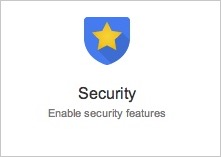
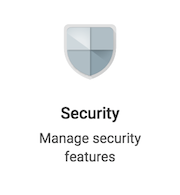
Google Apps screenshots updated

diff --git a/SAML_Docs/How-to-Enable-SAML-2.0-in-Google-Apps.html b/SAML_Docs/How-to-Enable-SAML-2.0-in-Google-Apps.html
@@ -52,14 +52,13 @@ try{Typekit.load();}catch(e){}
 <li>
 <p>Click the <strong>Security</strong> icon shown below.<br /><img style="border: 0; padding: 0;" src="images/apps/Google_Apps_Security_Icon.jpg" alt="Google_Apps_Security_Icon.jpg" /><br /><strong>NOTE</strong>: If the Security icon is not visible, click More Controls at the bottom of the panel and drag the Security icon into the Admin Console dashboard.</p>
 </li>
-<li>On the Security menu, select Advanced Settings, as shown below.<br /><img style="border: 0; padding: 0;" src="images/apps/Google_Apps_Advanced_Settings.jpg" alt="Google_Apps_Advanced_Settings.jpg" /></li>
-<li>On the Advanced Settings menu, select <strong>Set up single sign-on (SSO)</strong>, as shown below.<br /><img style="border: 0; padding: 0;" src="images/apps/Google_Apps_3.jpg" alt="Google_Apps_3.jpg" /></li>
+<li>On the Security menu, select <strong>Set up single sign-on (SSO)</strong>, as shown below.<br /><img style="border: 0; padding: 0;" src="images/apps/Google_Apps_Advanced_Settings.jpg" alt="Google_Apps_Advanced_Settings.jpg" /></li>
 </ol>
 <h3>Complete the Single Sign-on Screen</h3>
 <p>Note: See screen shot at end of document for reference.</p>
 <ol>
 <li>
-<p>Check&nbsp;<strong>Enable Single Sign-on</strong>, as shown below.</p>
+<p>Check&nbsp;<strong>Enable Setup SSO with third party identity provider (Option 2)</strong>, as shown below.</p>
 </li>
 <li>
 <p>Copy and paste the following into&nbsp;<strong>Sign-in page URL</strong>:</p>
